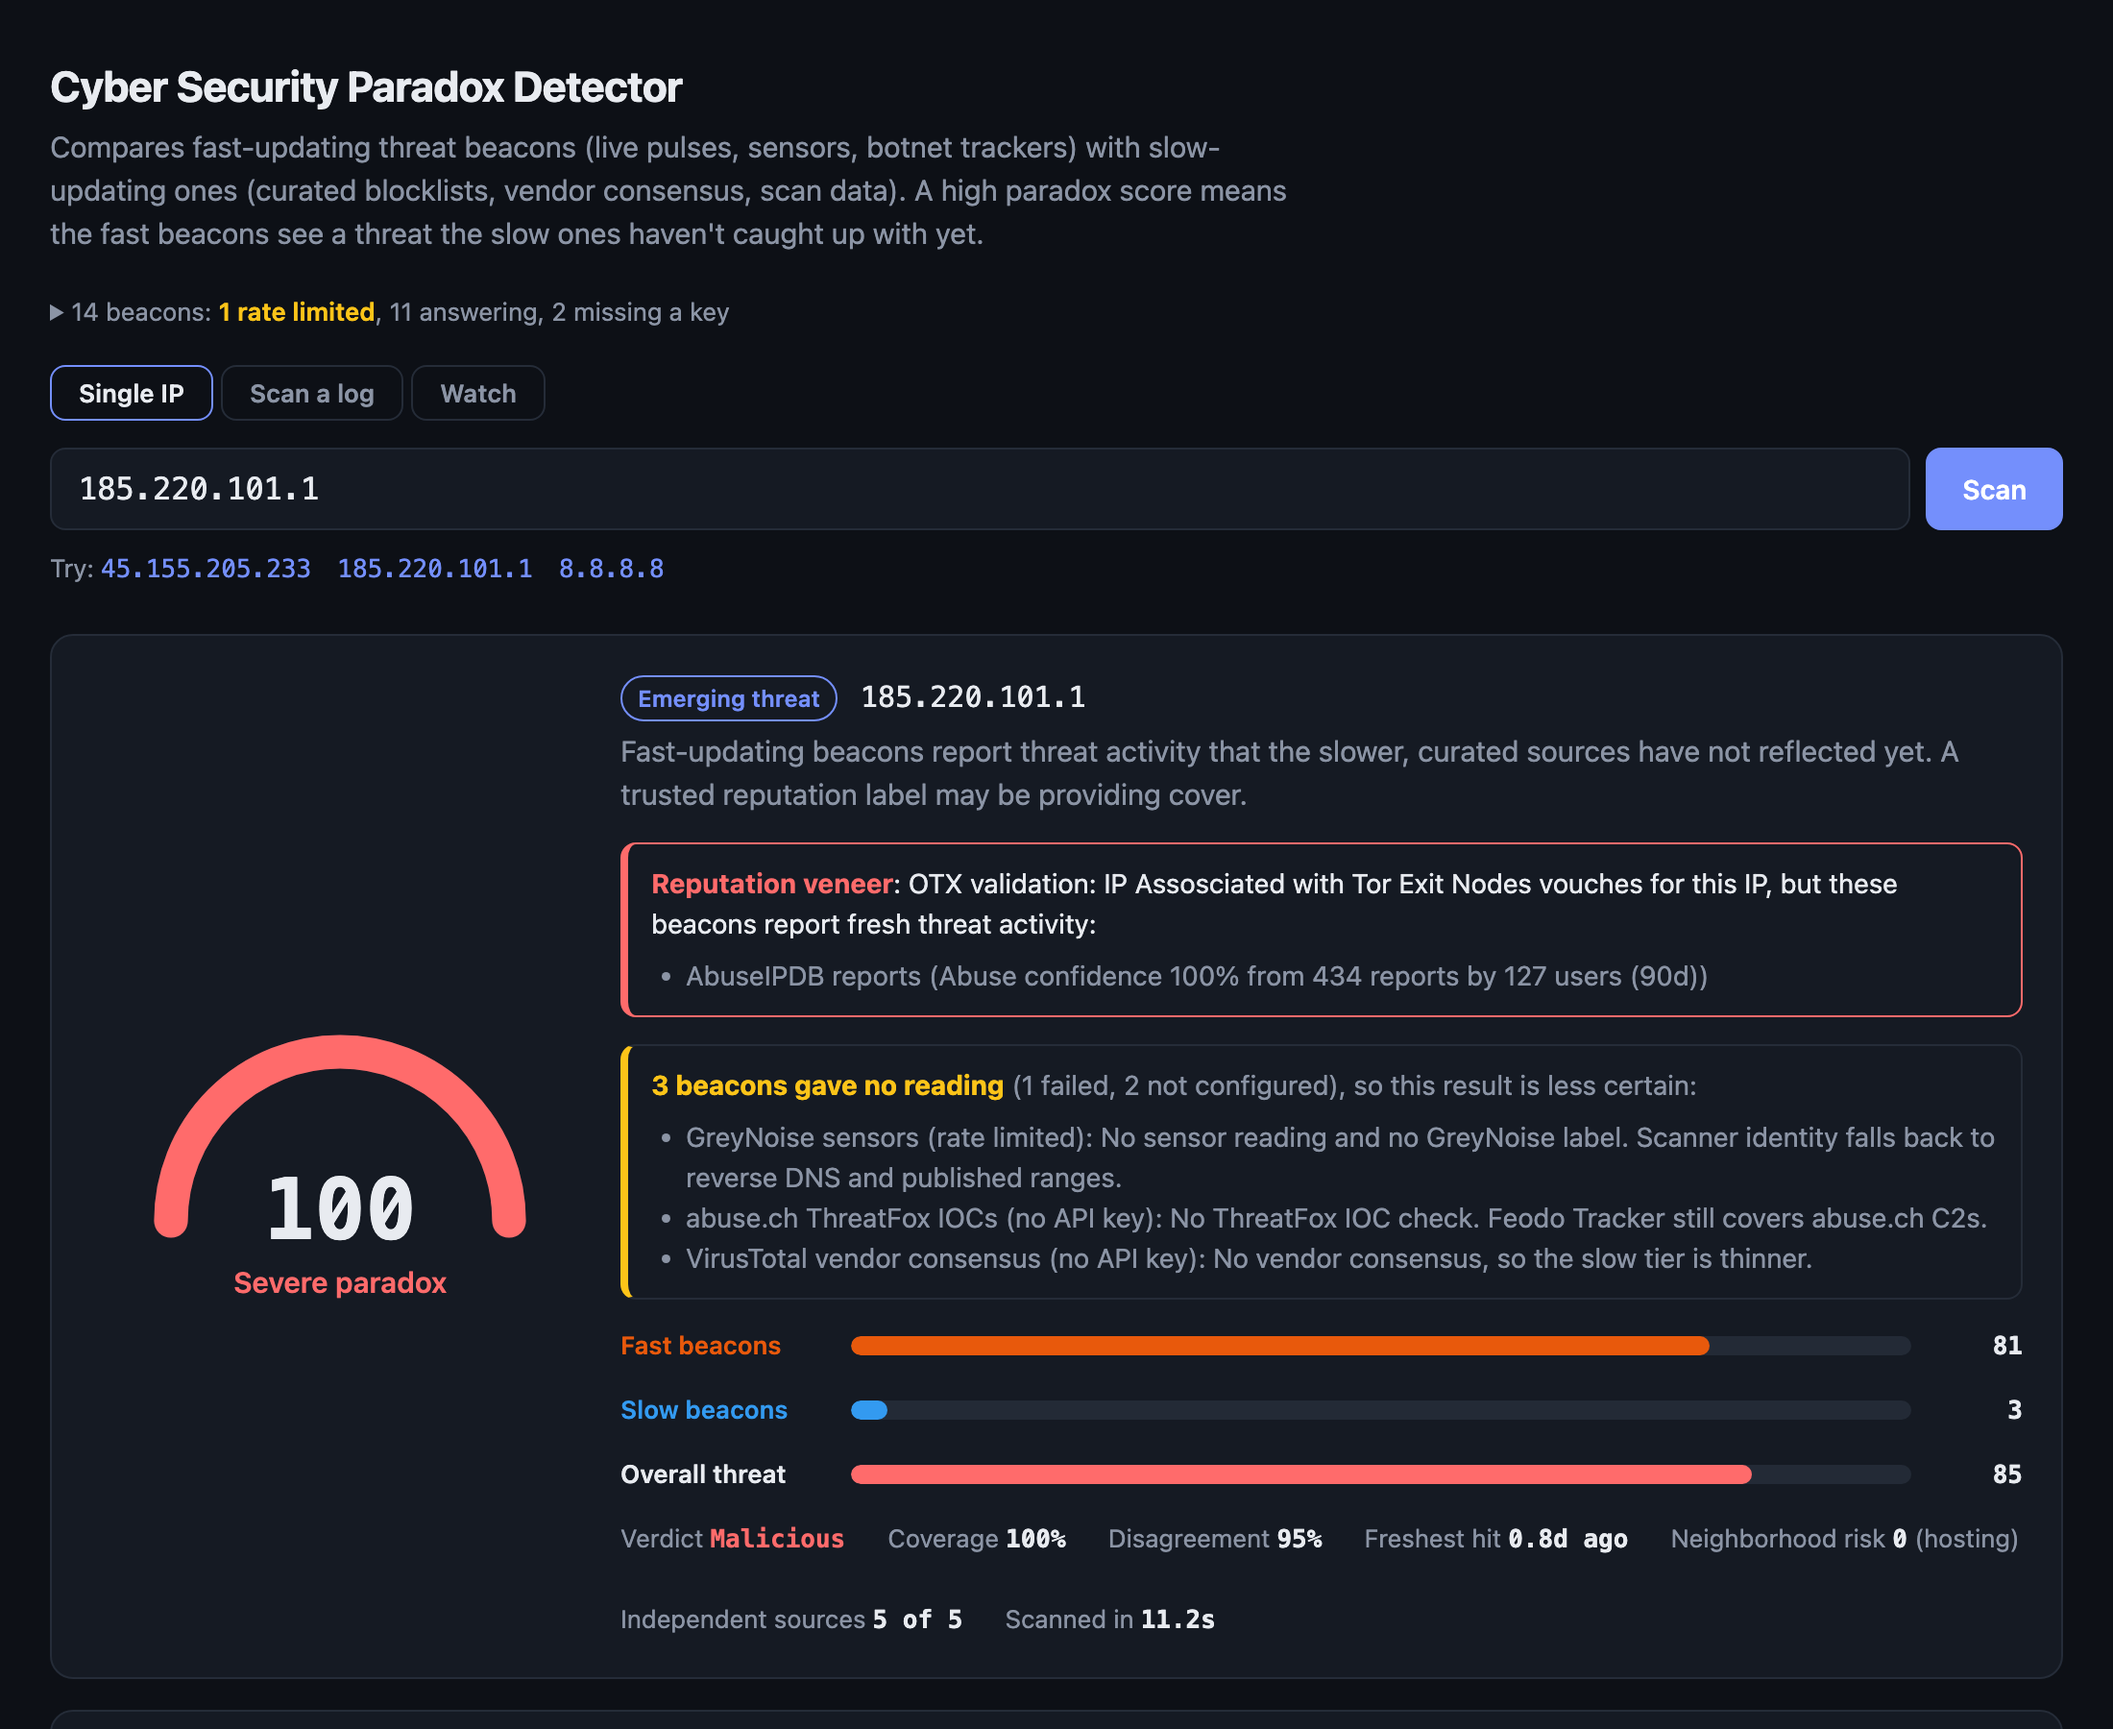
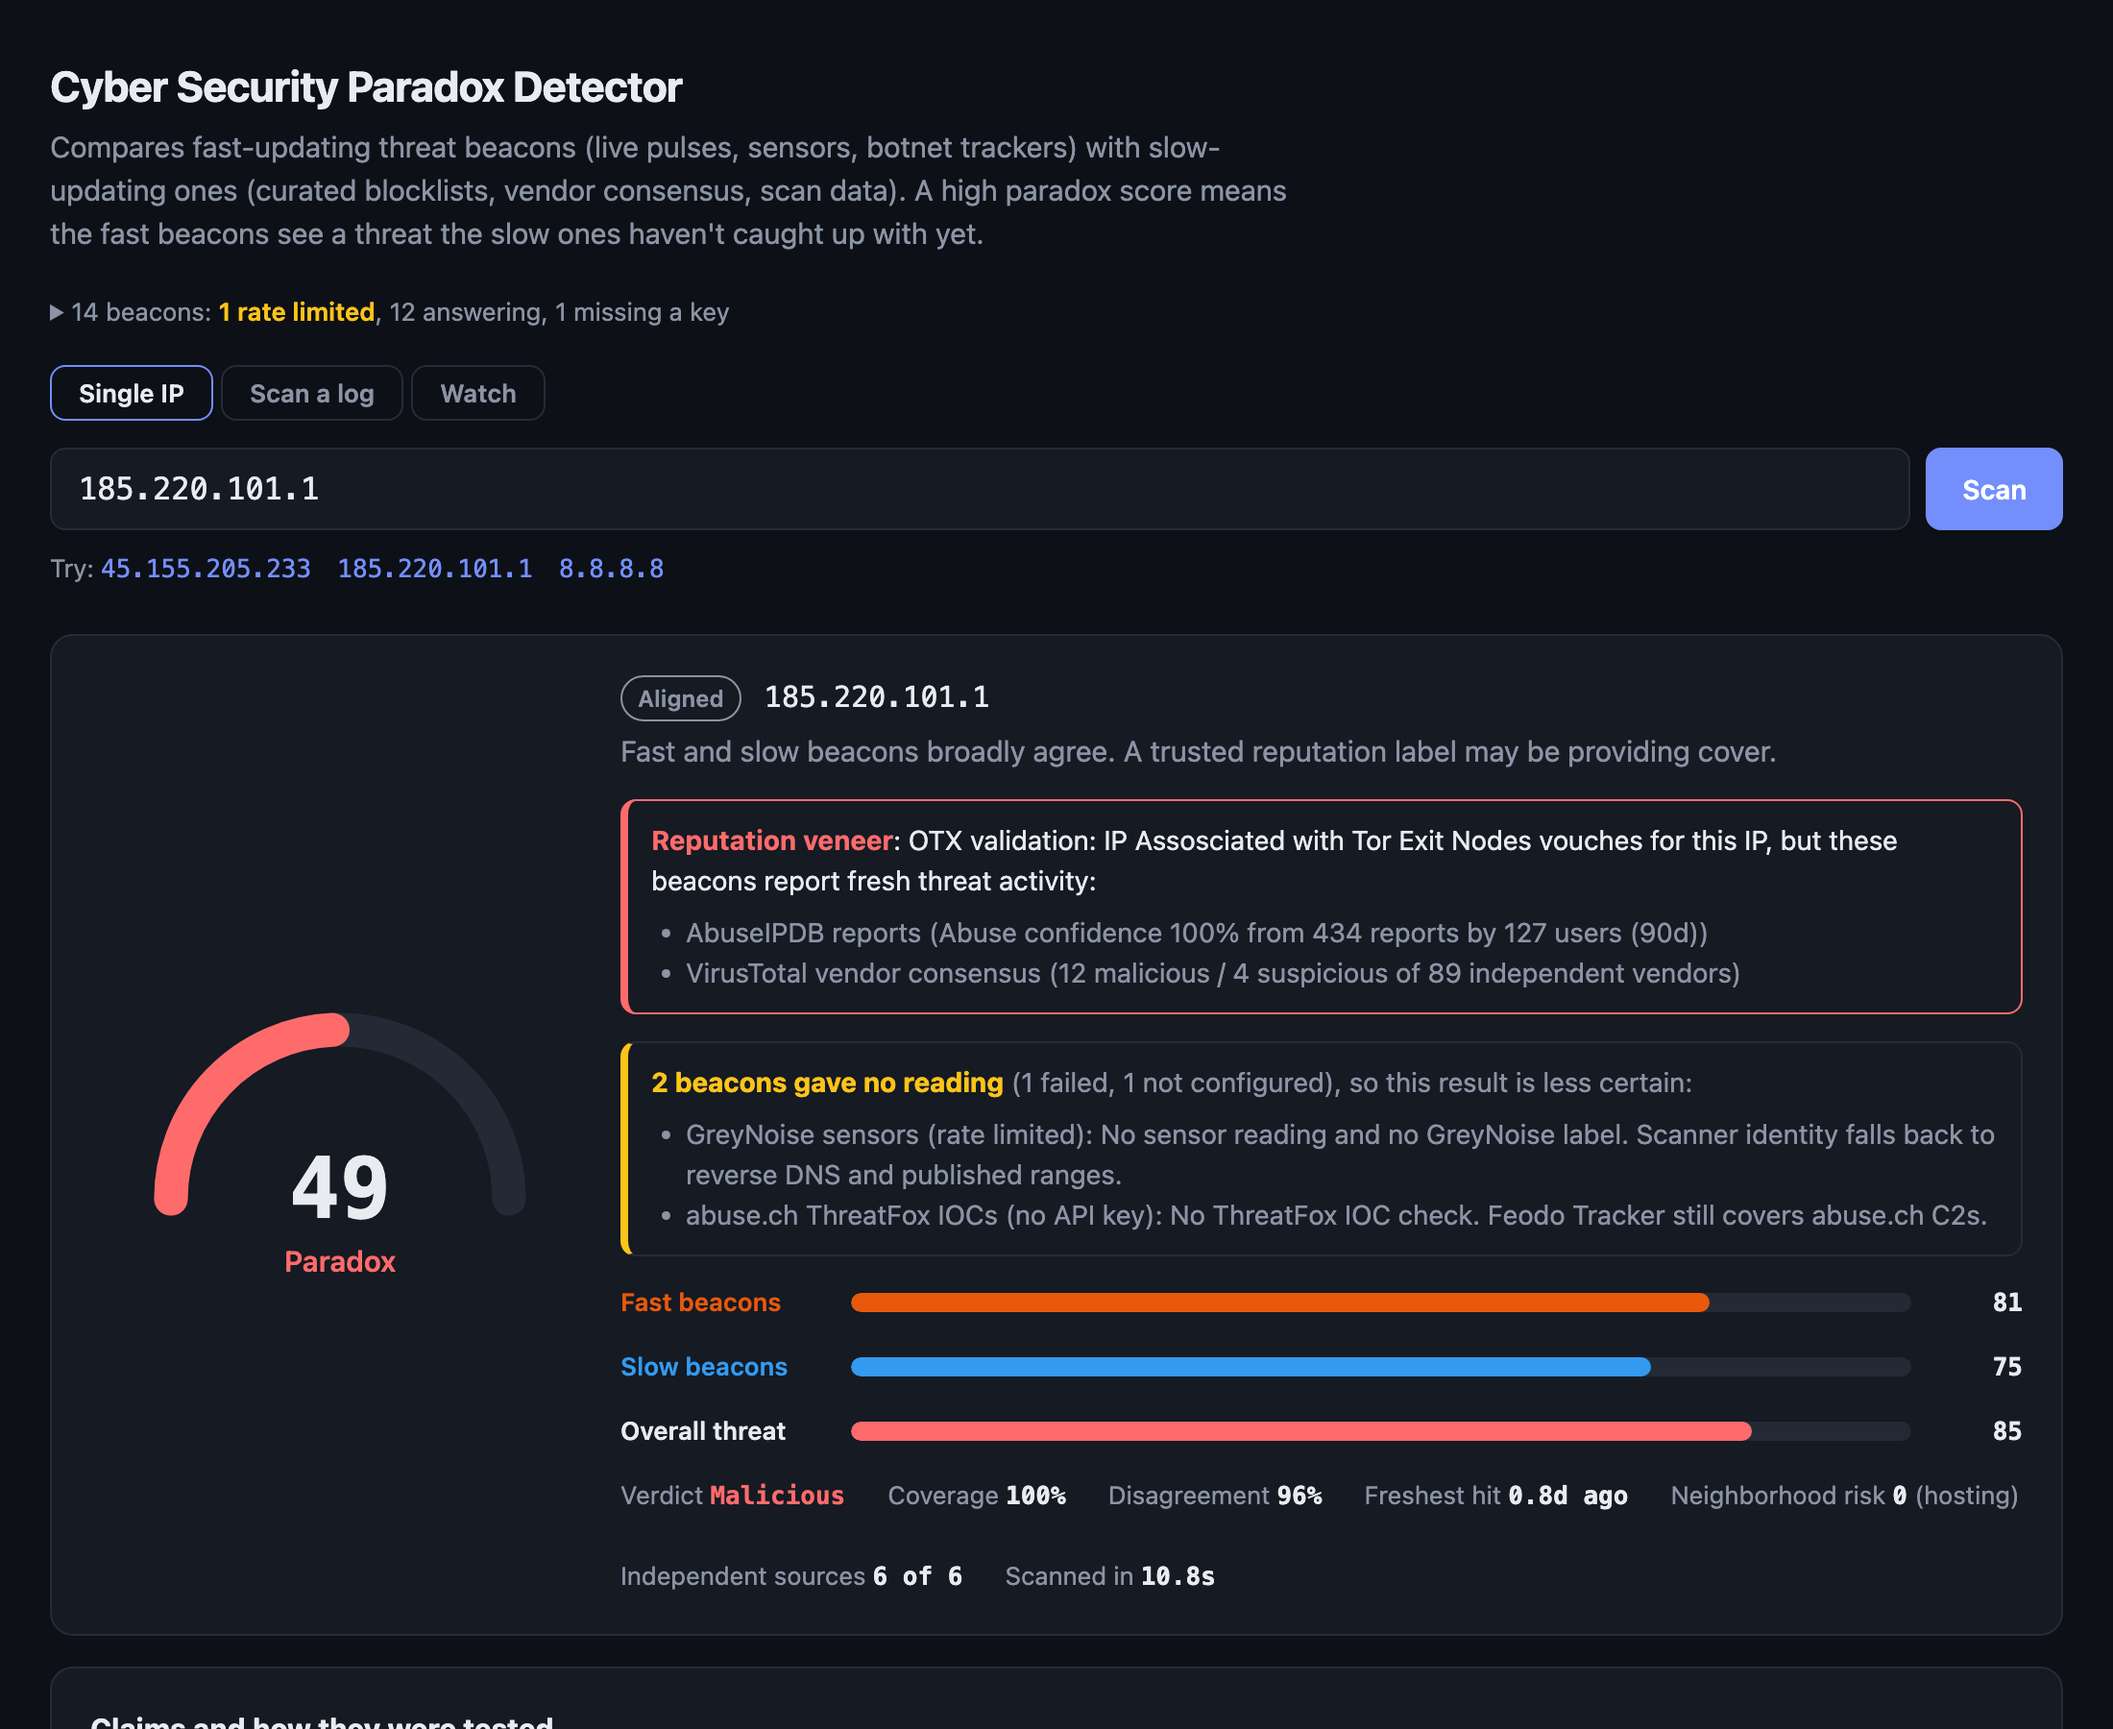
Retake the screenshot with VirusTotal active and file PDX-30 (#19)

diff --git a/ROADMAP.md b/ROADMAP.md
@@ -164,6 +164,14 @@ therefore depend on the day they run.
 by 7 users. Its only OTX pulse is honeypot data, so PDX-4 can't reach it. A rule written just for this
 address wouldn't count. Find out what separates a few reports on a major provider from real abuse.
 
+### 1.7 Pace VirusTotal's free quota · S
+
+- [ ] **PDX-30: Stay inside VirusTotal's free limits.** Done when: a test with a fake clock shows a batch of 25 IPs makes at most 4 VirusTotal lookups a minute, an IP that didn't get a lookup because of pacing says so in its report, a repeat lookup inside the cache window uses no quota, and the README states the limits (4 a minute, 500 a day, 15.5K a month).
+
+At 4 lookups a minute, a log scan runs out early and later IPs lose VirusTotal, so results within one scan aren't
+comparable. Waiting makes big scans slow, and not waiting leaves gaps; choosing between them is part of this story.
+The free tier also rules out business workflows, commercial products and services.
+
 ---
 
 ## Phase 2: Unmask new kinds of borrowed legitimacy
@@ -457,7 +465,7 @@ and fix the top issues. Repeat after 5.6. It also doubles as class material.
 | When | Items | Why first |
 |---|---|---|
 | Now | ~~1.1, 1.2, 1.5, 3.2, 5.1~~ (done) | Small, keyless, and fix the biggest measured weakness (the scanner rule's dependence on GreyNoise); 5.1 makes that dependence visible |
-| Next | 1.3, 3.1, 3.5, 3.6, 4.1, 4.5, ~~1.4, 1.6, 5.2, 5.4~~ (done) | Close the known false positives, build adversarial and hiding-place test sets, test the AI summarizer under attack, and show watch state and claim checks in the UI |
+| Next | 1.3, 1.7, 3.1, 3.5, 3.6, 4.1, 4.5, ~~1.4, 1.6, 5.2, 5.4~~ (done) | Close the known false positives, build adversarial and hiding-place test sets, test the AI summarizer under attack, and show watch state and claim checks in the UI |
 | Then | 2.1, 2.3, 3.3, 3.4, 4.2, 4.4, ~~4.3~~ (done), 5.3, 5.5–5.7 | New unmasking signals plus self-measurement once history has accumulated, with the UI restructured to hold them |
 | Later | 2.2, 2.4, 2.5 | Bigger extensions: domains, campaigns, more beacons |
 

diff --git a/README.md b/README.md
@@ -16,7 +16,7 @@ Give it a public IP. It queries several threat-intel beacons at the same time an
 Every score comes with its reasoning: signed points that add up to the result, each identity claim and how
 it was tested, and which beacons didn't answer.
 
-<p align="center"><img src="docs/screenshot.png" alt="A scan report showing a severe paradox: fast beacons at 81, slow beacons at 3, with a contradicted reputation label" width="800"></p>
+<p align="center"><img src="docs/screenshot.png" alt="A scan report with a paradox score of 49 and a contradicted reputation label, listing which beacons gave no reading" width="800"></p>
 
 Use it as a web app, a CLI, a batch log scanner, a headless log watcher or an MCP server for AI assistants.
 Where it's headed: [ROADMAP.md](ROADMAP.md), on unmasking borrowed legitimacy.
